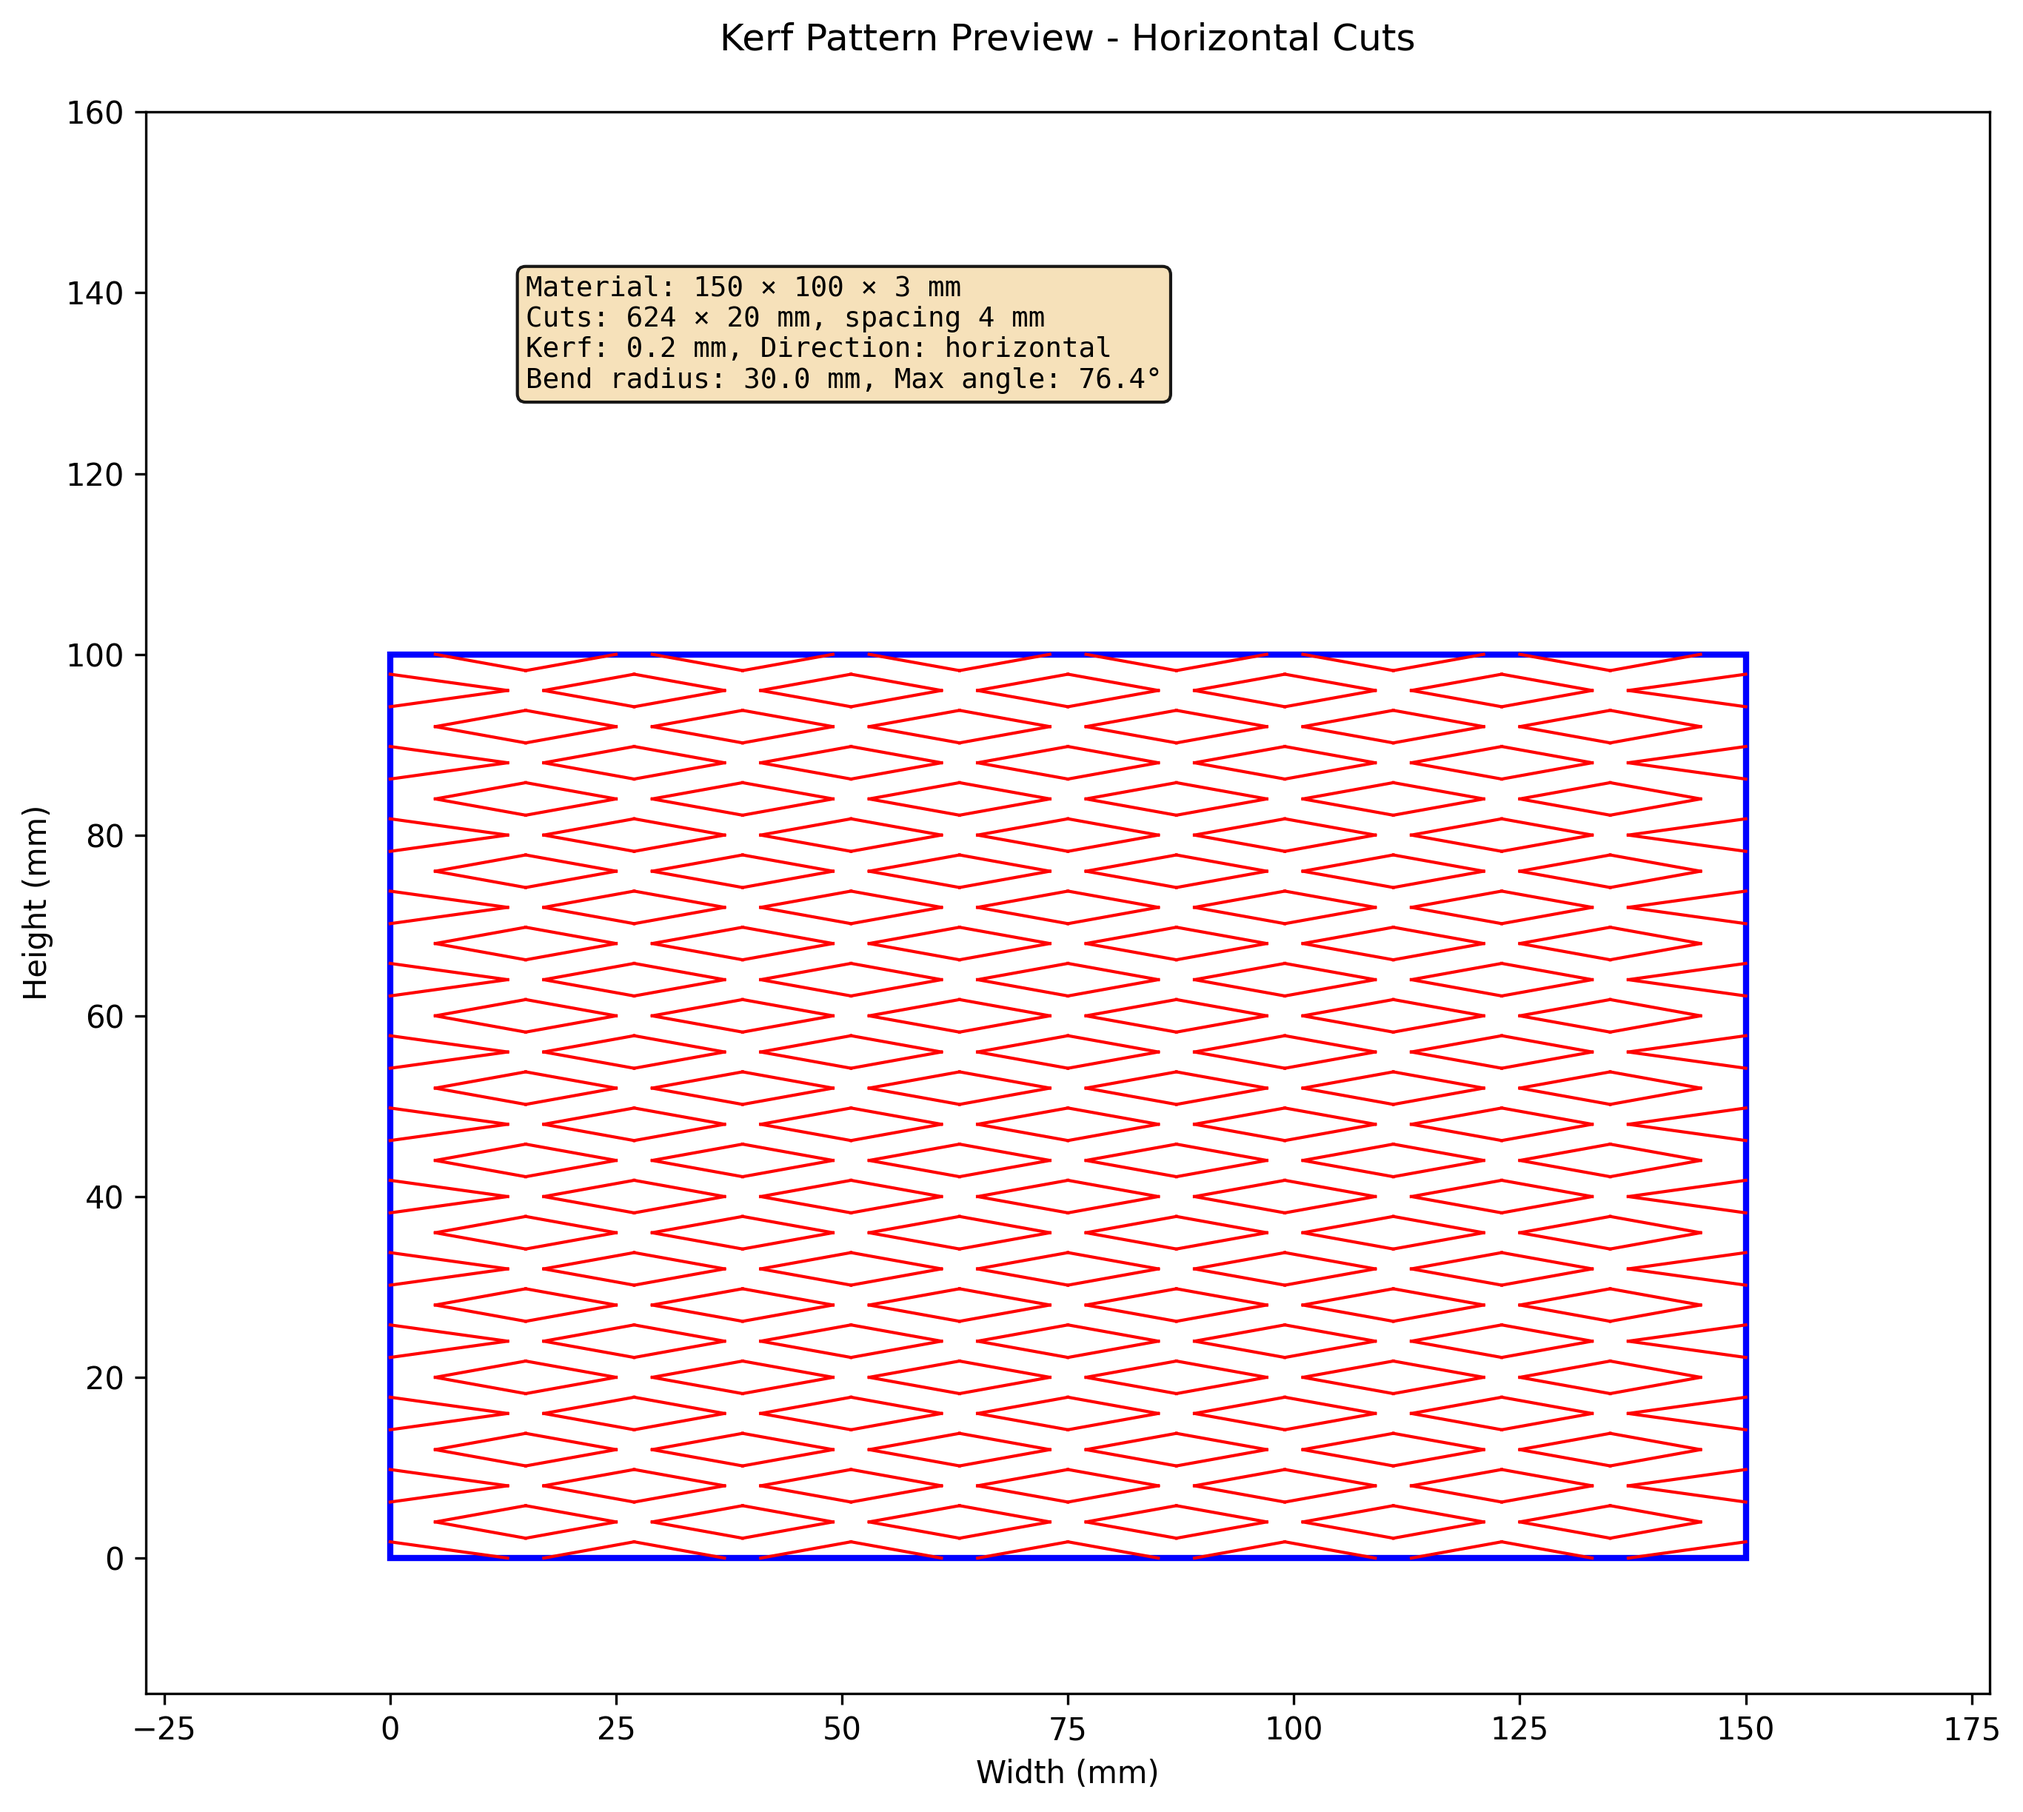
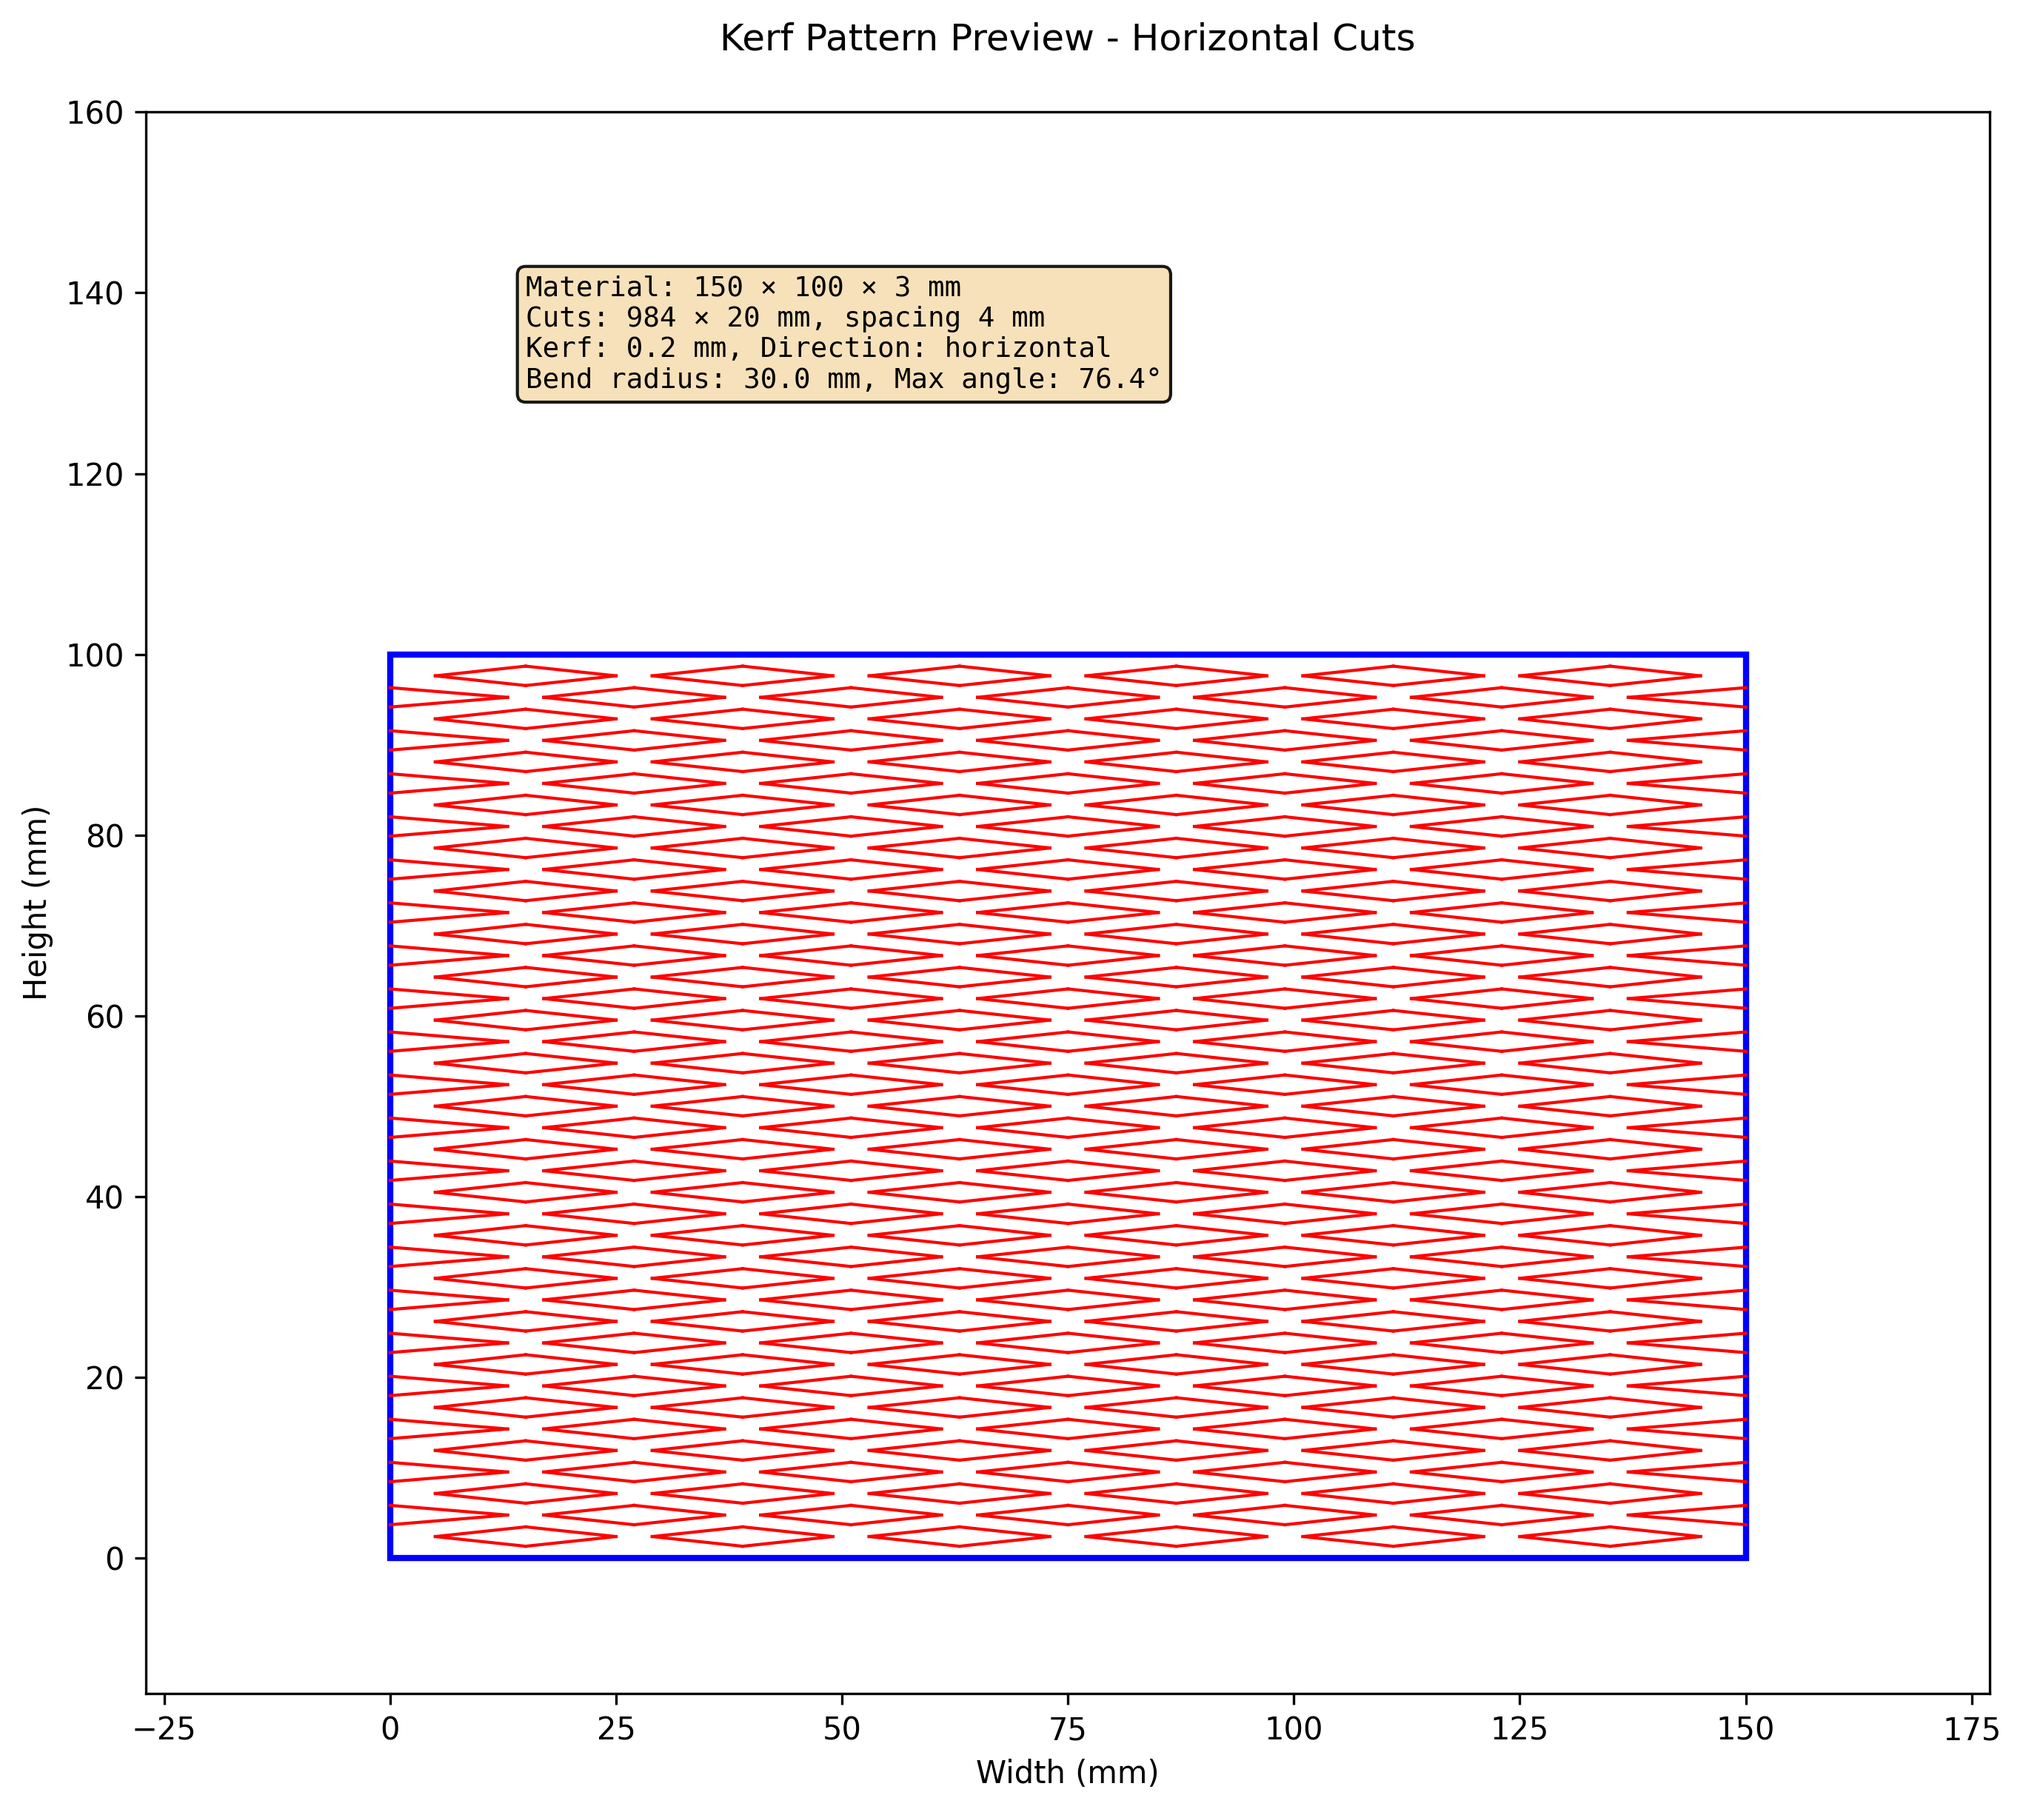
feat: decouple row/column spacing and suppress boundary slivers
- Add optional row_spacing param to KerfParameters (defaults to cut_spacing).
  cut_spacing now controls horizontal tab width only; row_spacing controls
  vertical pitch independently, allowing denser rows without narrower tabs.
- Add effective_row_spacing property for clean internal resolution.
- Skip rows within diamond_height/4 (or lens_height/4) of the top/bottom
  boundary — eliminates tiny clipped slivers that served no purpose.

Changed region(s): [[0.1867, 0.3416, 0.8712, 0.8696]]

diff --git a/src/kerf_generator/patterns.py b/src/kerf_generator/patterns.py
@@ -203,7 +203,7 @@ def _generate_diamond_pattern(params: KerfParameters) -> List[LineSegment]:
     W = params.material_width
     H = params.material_height
 
-    num_rows = max(1, round(H / params.cut_spacing))
+    num_rows = max(1, round(H / params.effective_row_spacing))
     row_spacing = H / num_rows
     diamond_height = row_spacing * 0.90
 
@@ -211,11 +211,17 @@ def _generate_diamond_pattern(params: KerfParameters) -> List[LineSegment]:
     # right edge clips are symmetric.
     offset = (W % period) / 2
 
+    # Don't place rows so close to the top/bottom that they'd produce tiny slivers.
+    y_margin = diamond_height / 4
+
     for row_idx in range(num_rows + 1):
         y = row_idx * row_spacing
         if y > H + 1e-9:
             break
         y = min(y, H)
+
+        if y < y_margin or y > H - y_margin:
+            continue  # skip — would be clipped to less than quarter-height
 
         # Even rows anchor at offset; odd rows shift by half a period.
         anchor = offset if row_idx % 2 == 0 else offset + period / 2
@@ -343,8 +349,9 @@ def _generate_oval_pattern(params: KerfParameters) -> List[LineSegment]:
     lines: List[LineSegment] = []
 
     cut_len = params.cut_length
-    row_spacing = params.cut_spacing
-    period = cut_len + row_spacing
+    tab_width = params.cut_spacing            # horizontal gap between ovals
+    row_spacing = params.effective_row_spacing  # vertical pitch (may differ from tab_width)
+    period = cut_len + tab_width             # x-period stays tied to cut_spacing
     W = params.material_width
     H = params.material_height
     lens_height = row_spacing * 0.75
@@ -355,9 +362,17 @@ def _generate_oval_pattern(params: KerfParameters) -> List[LineSegment]:
     # Center the grid so both edge clips are symmetric.
     offset = (W % period) / 2
 
+    # Don't place rows so close to the top/bottom that they'd produce tiny slivers.
+    y_margin = lens_height / 4
+
     row = 0
     y = 0.0
     while y <= H + 1e-9:
+
+        if y < y_margin or y > H - y_margin:
+            y += row_spacing
+            row += 1
+            continue  # skip — would be clipped to less than quarter-height
 
         anchor = offset if row % 2 == 0 else offset + period / 2
         n_back = math.ceil((anchor + cut_len / 2) / period)

diff --git a/src/kerf_generator/parameters.py b/src/kerf_generator/parameters.py
@@ -55,6 +55,7 @@ class KerfParameters:
 
     # Optional pattern configuration
     num_vertical_rows: Optional[int] = None  # None = auto-calculate based on height
+    row_spacing: Optional[float] = None  # None = use cut_spacing; set smaller for denser rows
 
     # Optional metadata
     material_name: Optional[str] = None
@@ -118,6 +119,11 @@ class KerfParameters:
                 warn_module.warn(warning, UserWarning)
 
         return is_valid, warnings
+
+    @property
+    def effective_row_spacing(self) -> float:
+        """Vertical pitch between rows. Defaults to cut_spacing when row_spacing is None."""
+        return self.row_spacing if self.row_spacing is not None else self.cut_spacing
 
     @property
     def bend_radius(self) -> float:
